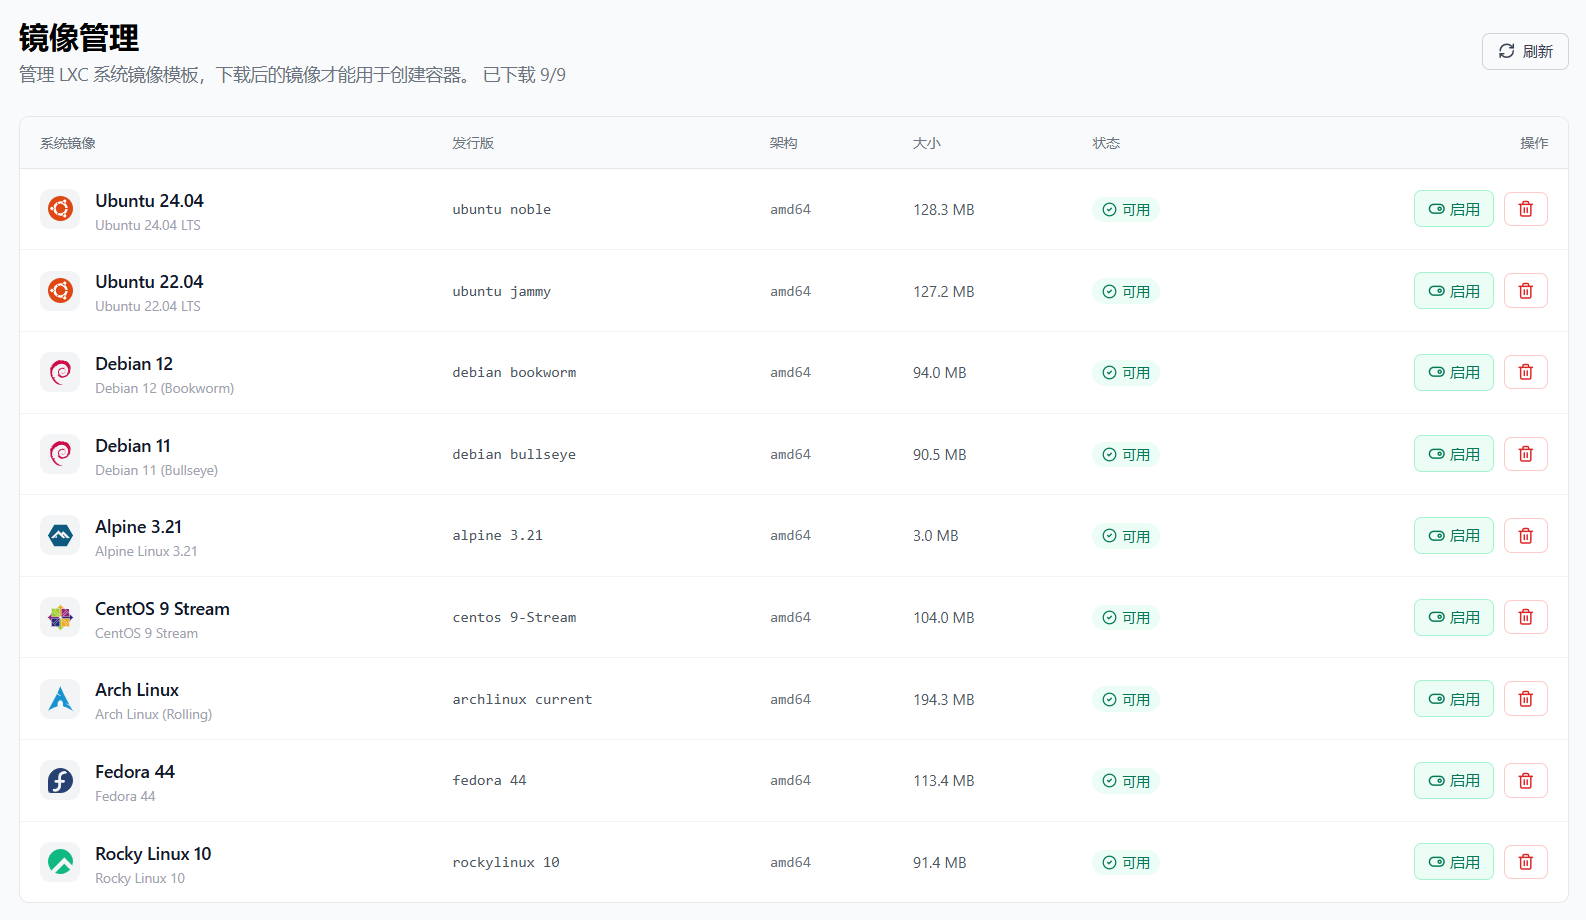
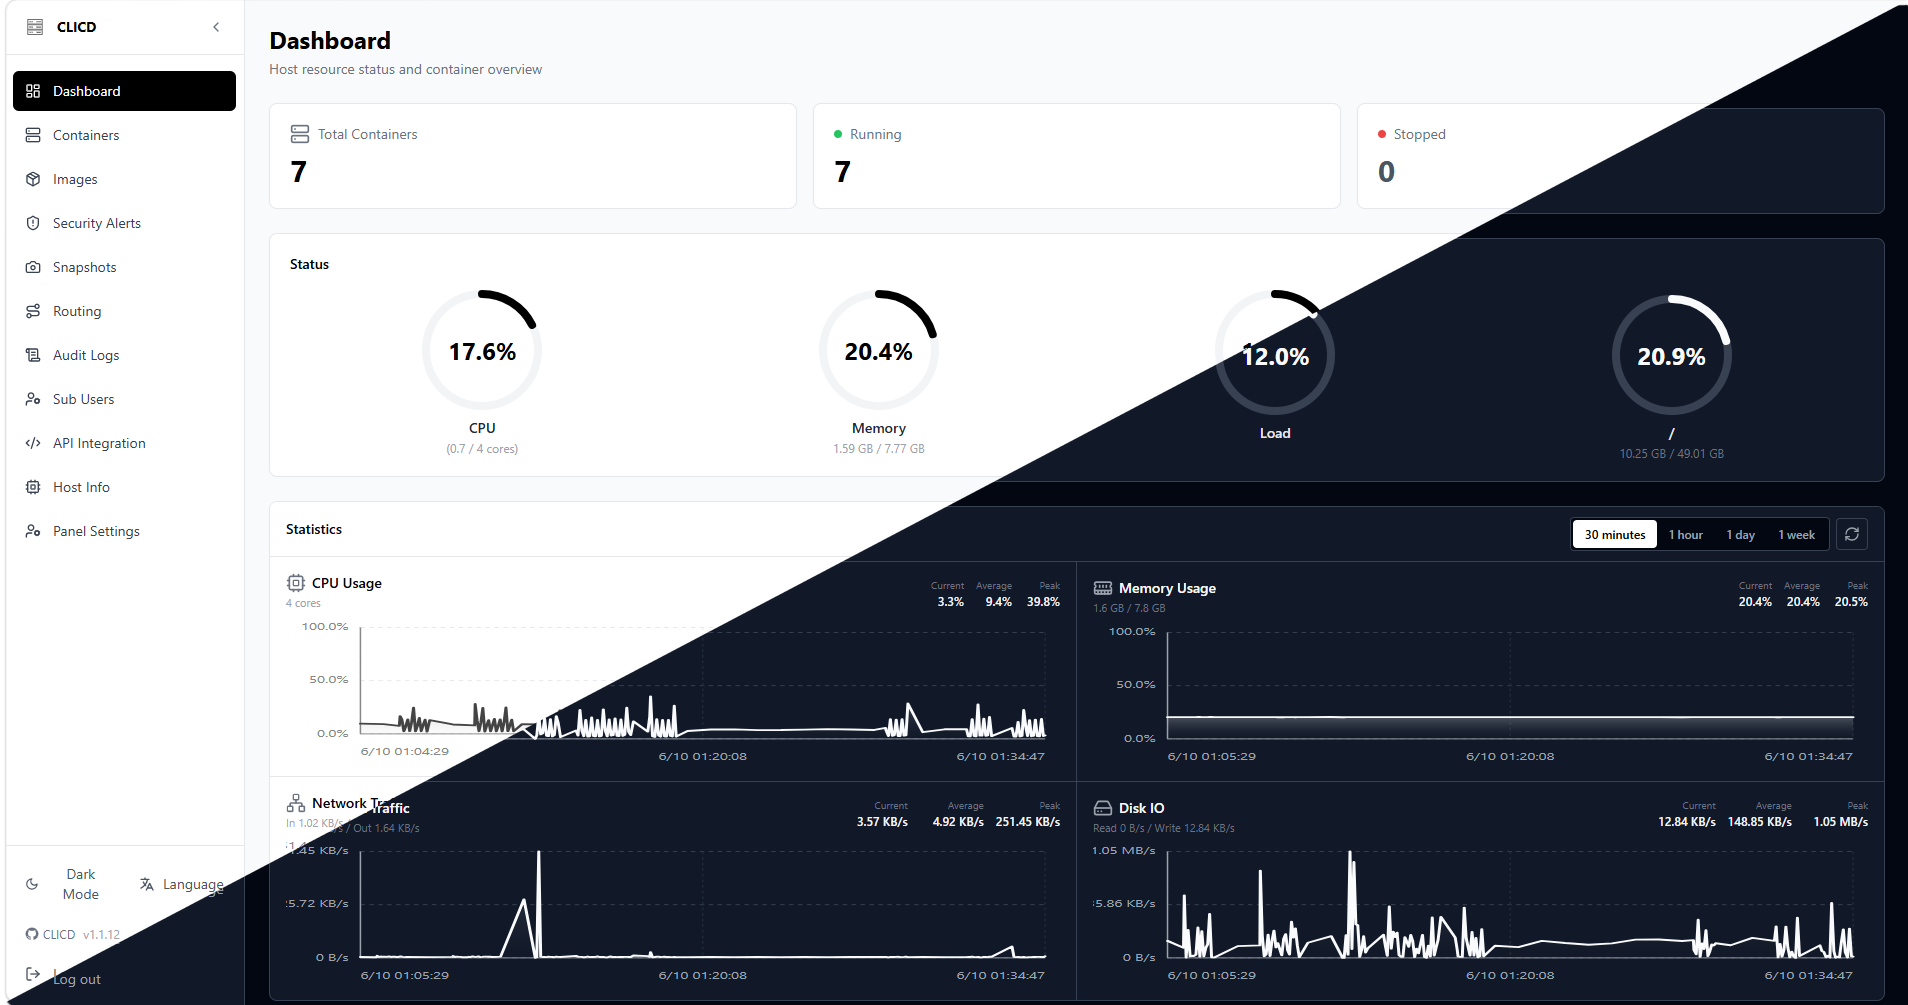
Refactor code structure for improved readability and maintainability

diff --git a/README.md b/README.md
@@ -5,7 +5,7 @@
 <h1 align="center">CLICD</h1>
 
 <p align="center">
-  <img alt="Go" src="https://img.shields.io/badge/Go-1.22-00ADD8?style=flat-square&logo=go&logoColor=white">
+  <img alt="Go" src="https://img.shields.io/badge/Go-1.24-00ADD8?style=flat-square&logo=go&logoColor=white">
   <img alt="React" src="https://img.shields.io/badge/React-18-61DAFB?style=flat-square&logo=react&logoColor=111111">
   <img alt="TypeScript" src="https://img.shields.io/badge/TypeScript-5-3178C6?style=flat-square&logo=typescript&logoColor=white">
   <img alt="Vite" src="https://img.shields.io/badge/Vite-5-646CFF?style=flat-square&logo=vite&logoColor=white">
@@ -27,41 +27,11 @@
   <img alt="TLS" src="https://img.shields.io/badge/TLS-Let's_Encrypt-003A70?style=flat-square&logo=letsencrypt&logoColor=white">
 </p>
 
-CLICD is a lightweight virtualization management panel for LXC and KVM, featuring a web console, CLI management, batch operations, image management, NAT networking, IPv6 allocation, WebSSH, VNC access, resource controls, bandwidth limiting, and security alerting.
-It is designed for managing LXC containers and KVM virtual machines on VPS servers, and is particularly suitable for environments that require bulk provisioning and delegated access management through sub-user management links.
+CLICD is a lightweight virtualization management panel for LXC and KVM. It combines a web console, CLI tools, REST API, NAT/IPv6 networking, WebSSH/WebVNC access, resource quotas, traffic limits, snapshots, delegated sub-user access, and security alerts into a single deployable service.
 
-CLICD 是一个面向 LXC/KVM 的轻量虚拟化管理面板，提供 Web 控制台、CLI、批量任务、镜像管理、NAT 端口、IPv6 分配、WebSSH、VNC、资源限制、流量限制和安全告警能力。它适合用来管理小型 VPS 上的 LXC 容器和 KVM 虚拟机，也适合需要批量创建和分发子用户管理链接的场景。
+CLICD 是一个面向 LXC/KVM 的轻量虚拟化管理面板，集成 Web 控制台、CLI、REST API、NAT/IPv6 网络、WebSSH/WebVNC、资源配额、流量限制、快照、子用户授权和安全告警能力，适合 VPS 商家、实验室、开发者自建虚拟化节点以及需要批量开通容器的场景。
 
-## Features / 功能介绍
-
-### English
-1. Supports Ubuntu, Debian, Alpine, CentOS, Arch Linux, Fedora, Rocky Linux, and other operating system images. Images can be downloaded on demand through the image management interface. For hosts with limited resources, lightweight distributions such as Alpine are recommended.
-2. Supports WebSSH management, allowing users to access container terminals directly from the browser without manually copying SSH credentials.
-3. Supports NAT4 port quotas, port forwarding, and protocol restrictions, as well as public IPv6 allocation. IPv6 assignment requires the host machine to have a routable IPv6 prefix.
-4. Supports both inbound and outbound traffic limits. Containers are automatically powered off when configured limits are reached, preventing bandwidth overuse.
-5. Supports container expiration dates. Expired containers are automatically shut down, and delegated users lose access until an administrator extends the expiration period.
-6. Includes lightweight conntrack-based security monitoring. The system does not store full logs of normal connections, but generates audit alerts for suspicious activities such as port scanning, lateral scanning, brute-force attempts, SMTP abuse, UDP reflection attacks, cryptocurrency mining ports, and proxy/VPN/Tor usage.
-7. Supports delegated management links. Administrators can assign specific containers to sub-users, while ensuring that each user can only manage the containers explicitly authorized to them.
-8. Provides a REST API for automating the management of containers, tasks, images, networking, traffic controls, and security alerts.
-9. Supports operating entirely through the CLI. When the web console is not required, administrators can stop and disable the systemd service and launch CLI-only mode using `clicd cli --no-web`.
-
-### 中文
-1. 支持 Ubuntu、Debian、Alpine、CentOS、Arch Linux、Fedora、Rocky Linux 等系统镜像。镜像可以在镜像管理中按需下载；如果宿主机资源比较小，建议优先选择 Alpine 这类轻量镜像。
-2. 支持 WebSSH 管理，可以在浏览器里一键进入容器终端，不需要手动复制 SSH 密码。
-3. 支持设置 NAT4 端口数量、NAT 端口映射和协议限制，并支持分配公网 IPv6。IPv6 分配要求宿主机本身拥有可路由的 IPv6 地址段。
-4. 支持单向和双向网络流量限制。达到限制后容器会自动关机，避免流量超额。
-5. 支持设置容器有效期。到期后容器会自动关机，子用户无法继续操作，只有管理员重新设置延期日期后才能恢复使用。
-6. 内置基于 conntrack 的轻量安全告警。系统不会保存完整正常连接日志，但会对端口扫描、横向扫描、爆破倾向、SMTP 滥用、UDP 反射、挖矿端口、代理/VPN/Tor 等可疑行为生成告警并写入审计日志。
-7. 支持子用户管理链接，管理员可以把指定容器分发给拼车用户，子用户只能管理自己被授权的容器。
-8. 支持 API 接入，可以通过 API 完成容器、任务、镜像、端口、流量、安全告警等功能的自动化控制。
-9. 支持仅使用 CLI 管理。需要关闭 Web 控制台时，可以停止并禁用 systemd 服务，然后使用 `clicd cli --no-web` 进入命令行模式。
-
-## Technology Stack / 技术栈
-
-- Backend: Go, net/http, LXC, KVM/libvirt, cgroup v2, iptables, conntrack
-- Frontend: React, TypeScript, Vite, Tailwind CSS, lucide-react, xterm.js
-- Runtime: Linux, systemd, LXC, KVM/QEMU
-- Build: GitHub Actions, Node.js 20, Go 1.22
+![alt text](/img/image-1.png)
 
 ## Installation / 安装
 
@@ -77,9 +47,52 @@ One-click Uninstall / 一键卸载：
 curl -fsSL https://raw.githubusercontent.com/MengMengCode/CLICD/main/install.sh | sudo sh -s -- uninstall
 ```
 
-![alt text](/img/image.png)
-![alt text](/img/image-1.png)
+
+
+## Features / 功能介绍
+
+### English
+
+| Area | What CLICD provides |
+| --- | --- |
+| Virtualization | Manage LXC containers and KVM virtual machines from one panel, including create, reinstall, start, stop, restart, delete, password reset, expiry control, and batch actions. |
+| Images and templates | Built-in template and image management for Ubuntu, Debian, Alpine, CentOS, Arch Linux, Fedora, Rocky Linux, and other common distributions. Images can be enabled, disabled, downloaded, cancelled, or removed from cache. |
+| Networking | NAT4 port quotas, random available port allocation, TCP/UDP port mappings, public IPv4 pool management, IPv6 prefix detection, IPv6 status checks, and per-container IPv6 assignment. |
+| Resource control | CPU, memory, disk, swap, bandwidth usage, traffic reset, traffic limit, and resource limit management, with automatic shutdown behavior for expired or over-quota containers. |
+| Console access | Browser-based WebSSH and WebVNC ticket access, so users can open terminals or consoles without manually exchanging credentials. |
+| Snapshots | Snapshot overview, per-container snapshots, create/delete/restore operations, scheduled snapshots, and quota controls. |
+| Security | Conntrack-based security alerts for port scans, lateral scans, brute-force behavior, SMTP abuse, UDP reflection, mining ports, proxy/VPN/Tor usage, plus security logs, summaries, and configurable settings. |
+| Accounts and audit | Delegated sub-user links, sub-user password rotation, per-user container permissions, audit logs, login logs, and API key management. |
+| Automation | Versioned REST API under `/api/v1`, task queue endpoints, batch create/action endpoints, and a Mofang finance integration module packaged automatically by GitHub Actions. |
+| Operations | Dashboard statistics, host resource overview, routing overview, swap management, CLI-only mode, and release artifacts generated by GitHub Actions. |
+
+### 中文
+
+| 模块 | CLICD 提供的能力 |
+| --- | --- |
+| 虚拟化管理 | 在同一个面板里管理 LXC 容器和 KVM 虚拟机，支持创建、重装、开机、关机、重启、删除、重置密码、到期时间和批量操作。 |
+| 镜像与模板 | 内置模板和镜像管理，支持 Ubuntu、Debian、Alpine、CentOS、Arch Linux、Fedora、Rocky Linux 等常见发行版，镜像可按需下载、取消、启用、禁用和清理缓存。 |
+| 网络能力 | 支持 NAT4 端口配额、随机可用端口、TCP/UDP 端口映射、公网 IPv4 池管理、IPv6 前缀检测、IPv6 状态检查和容器级 IPv6 分配。 |
+| 资源限制 | 支持 CPU、内存、磁盘、Swap、带宽用量、流量重置、流量限制和资源限制管理；容器到期或超额后可自动关机，避免资源和流量失控。 |
+| 远程控制 | 内置 WebSSH 和 WebVNC 票据访问，用户可以直接在浏览器打开终端或控制台，不需要手动复制连接信息。 |
+| 快照能力 | 支持快照总览、容器快照、创建快照、删除快照、恢复快照、计划快照和快照配额。 |
+| 安全告警 | 基于 conntrack 做轻量安全检测，可识别端口扫描、横向扫描、爆破倾向、SMTP 滥用、UDP 反射、挖矿端口、代理/VPN/Tor 等风险，并提供安全日志、汇总和设置项。 |
+| 账号与审计 | 支持子用户管理链接、子用户密码轮换、按容器授权、操作日志、登录日志和 API Key 管理，适合分发给下游用户或拼车用户。 |
+| 自动化接入 | 全量接口统一使用 `/api/v1`，覆盖任务队列、容器、镜像、网络、流量、安全、批量创建和批量操作；同时提供魔方财务对接模块，并由 GitHub Actions 自动打包发布。 |
+| 运维入口 | 提供总览统计、主机资源、路由概览、Swap 管理、CLI-only 模式和 GitHub Actions 自动发布产物，便于在小型节点上长期维护。 |
+
+## Technology Stack / 技术栈
+
+- Backend: Go, net/http, LXC, KVM/libvirt, cgroup v2, iptables, conntrack
+- Frontend: React, TypeScript, Vite, Tailwind CSS, lucide-react, xterm.js
+- Runtime: Linux, systemd, LXC, KVM/QEMU
+- Build: GitHub Actions, Node.js 20, Go 1.24
+
+## Preview / 预览
 ![alt text](/img/image-2.png)
+![alt text](/img/image-3.png)
+![alt text](/img/image-4.png)
+![alt text](/img/image-5.png)
 
 
 ## Disclaimer/免责声明